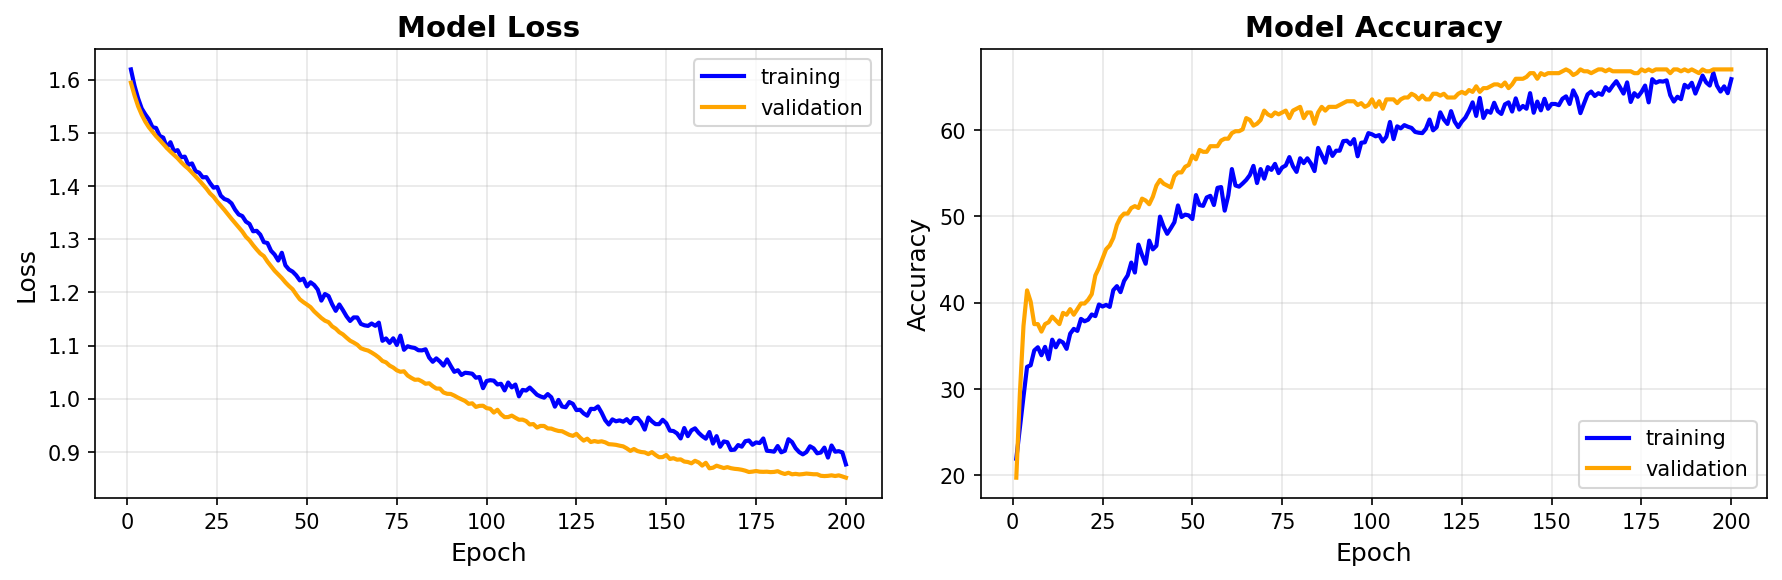
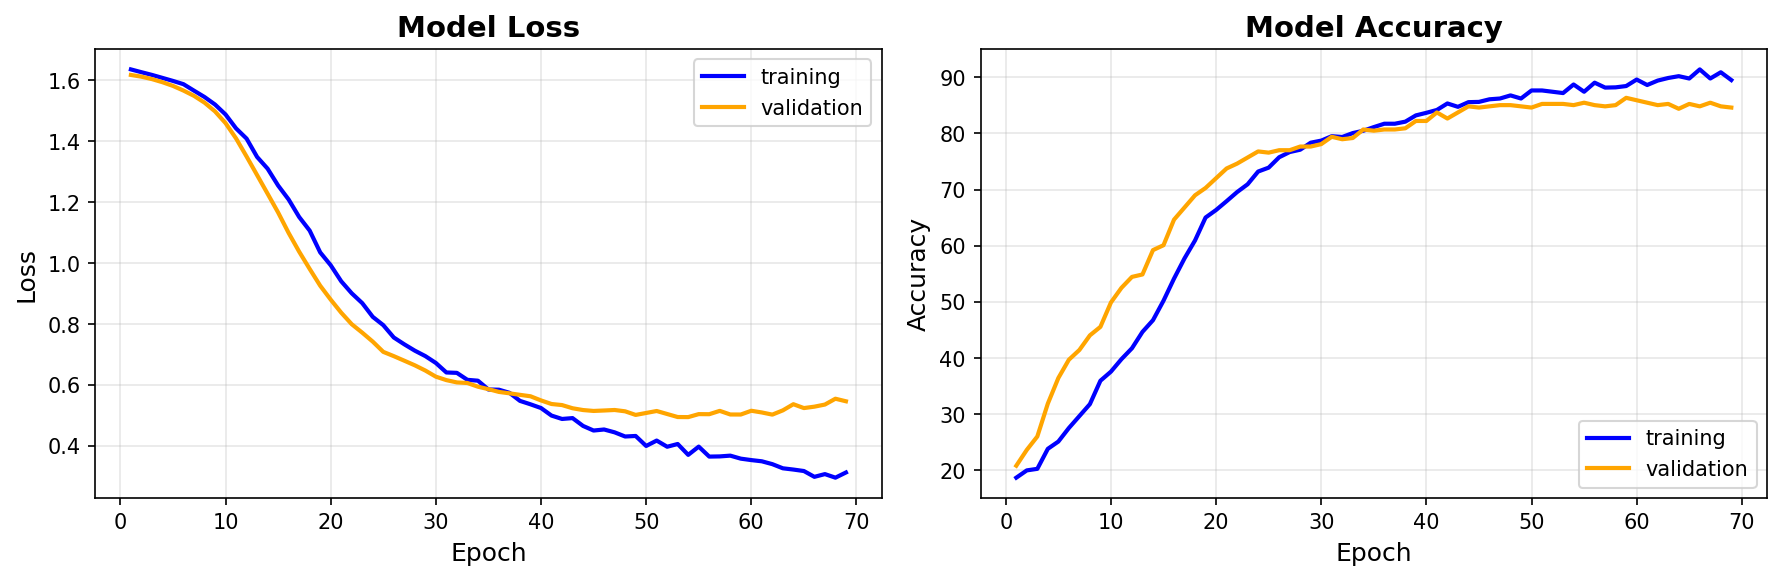
fix model densnet121  error

diff --git a/config.py b/config.py
@@ -14,7 +14,7 @@ class Config:
         DATASET_PATH = "/home/student/vuthde181070/dataset/TomatoDataset"
     else:
         # Local environment
-        DATASET_PATH = r"C:\Users\Administrator\Downloads\kaggle\working\ProcessedOriginal"
+        DATASET_PATH = r"/home/student/kaggle/working/ProcessedOriginal"
     # Train/Val/Test split ratios
     TRAIN_RATIO = 0.7
     VAL_RATIO = 0.15
@@ -22,8 +22,8 @@ class Config:
         
     # ===================== Training Configuration =====================
     BATCH_SIZE = 64
-    NUM_EPOCHS = 100
-    LEARNING_RATE = 4e-4
+    NUM_EPOCHS = 200
+    LEARNING_RATE = 1e-5
     WEIGHT_DECAY = 1e-7  # L2 regularization để chống overfitting
     WARMUP_EPOCHS = int(NUM_EPOCHS * 0.06)
     ETA_MIN = 1e-6 #For CosineAnnealing LR
@@ -41,13 +41,13 @@ class Config:
     
     # ===================== Model Configuration =====================
     MODELS = [
-        'vgg16',  
-        'resnet18',
-        'resnet101',
-        'mobilenet_v2',
-        'densenet121',
-        'efficientnet_b0',
-        'vit_base_patch16_224'
+        # 'vgg16',  
+        # 'resnet18',
+        # 'resnet101',
+        # 'mobilenet_v2',
+        'densenet121'
+        # 'efficientnet_b0',
+        # 'vit_base_patch16_224'
     ]
     
     # Custom classifier configuration
@@ -85,7 +85,7 @@ class Config:
     KEEP_RESULTS = True             # Luôn giữ results (Excel, charts)
     
     # Random seed for reproducibility
-    RANDOM_SEED = 42
+    RANDOM_SEED = 123
     
     # ===================== W&B Configuration =====================
     # W&B tracking

diff --git a/models.py b/models.py
@@ -115,8 +115,12 @@ def get_model(model_name, num_classes, freeze_backbone=True):
         # Replace classifier
         model.classifier = CustomClassifier(in_features, num_classes)
     
+    elif model_name == 'densenet121':
+        model = models.densenet121(weights=models.DenseNet121_Weights.IMAGENET1K_V1)
+        in_features = model.classifier.in_features
         # Freeze backbone
-        for name, param in model.named_parameters():
+        if freeze_backbone:
+            for name, param in model.named_parameters():
                 if not name.startswith('classifier'):
                     param.requires_grad = True
         # Replace classifier
@@ -126,7 +130,10 @@ def get_model(model_name, num_classes, freeze_backbone=True):
         model = timm.create_model('efficientnet_b0', pretrained=True)
         in_features = model.classifier.in_features
         # Freeze backbone
-        param.requires_grad = True
+        if freeze_backbone:
+            for name, param in model.named_parameters():
+                if not name.startswith('classifier'):
+                    param.requires_grad = True
         # Replace classifier
         model.classifier = CustomClassifier(in_features, num_classes)
     